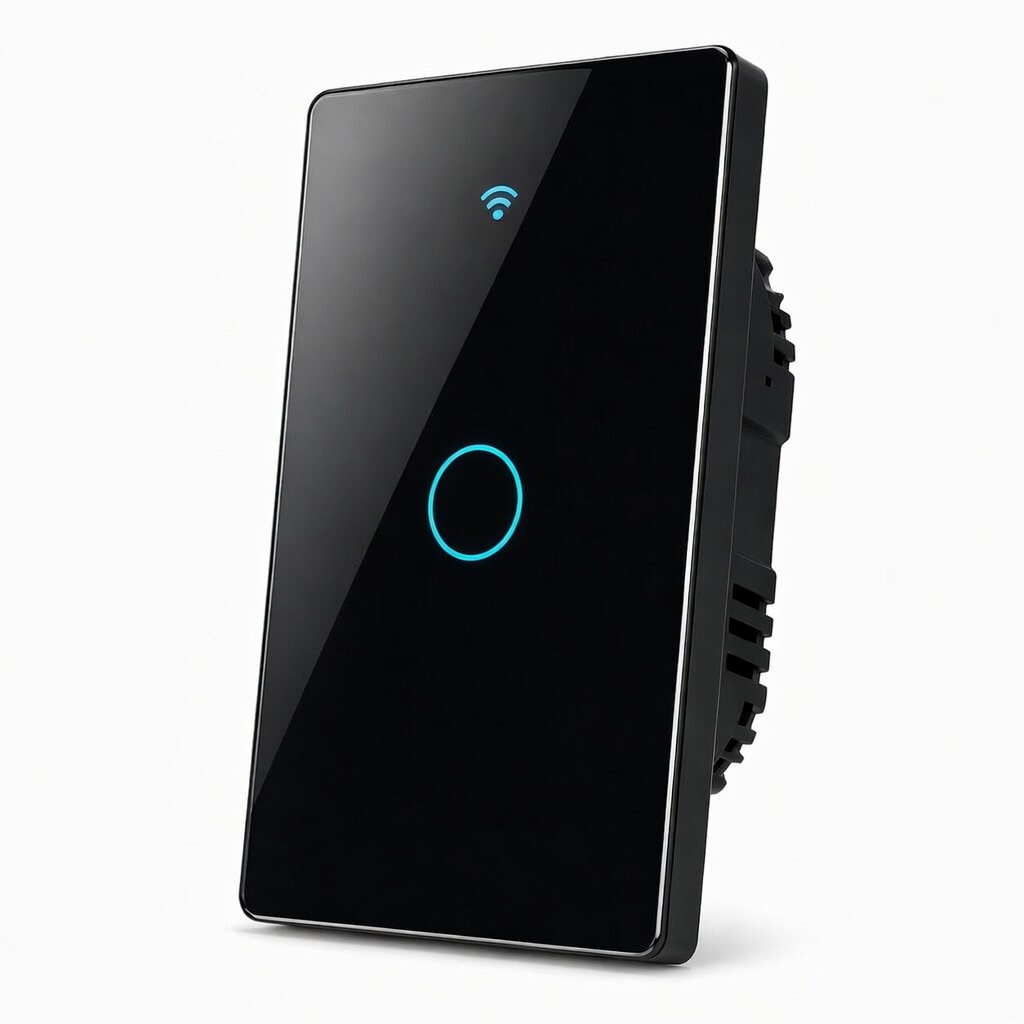
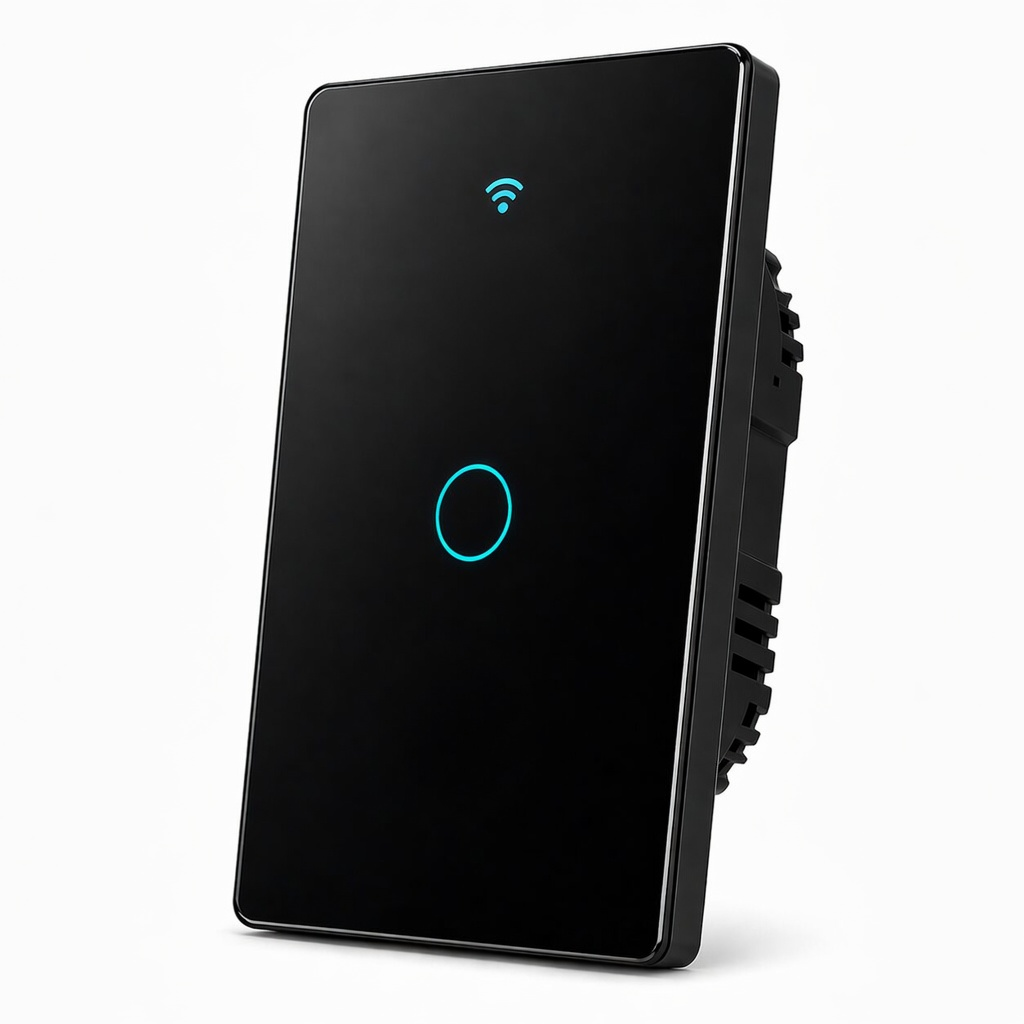
Agregar fotos reales de interruptores al catálogo y ajustar fondo
- Añadir 7 imágenes nuevas (blanco y negro, 1-4 canales)
- Actualizar foto interruptor 1 canal negro
- Fondo del contenedor de imagen dinámico: negro puro para variante blanca

Changed region(s): [[0.2188, 0.0312, 0.7812, 0.9688]]

diff --git a/src/components/Catalog.tsx b/src/components/Catalog.tsx
@@ -100,7 +100,10 @@ export default function Catalog() {
                 )}
 
                 {/* Imagen */}
-                <div className="h-[240px] flex items-center justify-center bg-white border-b border-[var(--border)] relative overflow-hidden">
+                <div
+                  className="h-[240px] flex items-center justify-center border-b border-[var(--border)] relative overflow-hidden transition-colors duration-300"
+                  style={{ backgroundColor: selectedColor === "blanco" ? "#000" : "#fff" }}
+                >
                   {displayImage ? (
                     <Image
                       src={displayImage}
